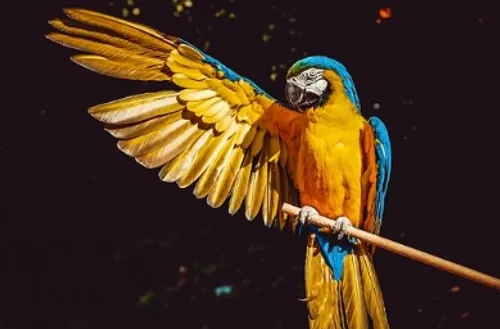
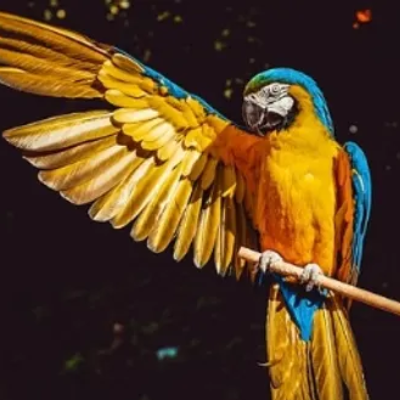
correcciones

diff --git a/index.html b/index.html
@@ -4,9 +4,9 @@
     <meta charset="UTF-8" />
     <meta name="viewport" content="width=device-width, initial-scale=1.0" />
     <title>Zoologico</title>
-    <link rel="stylesheet" href="style.css" />
+    <link rel="stylesheet" href="PaginaListas.css" />
   </head>
-  <body Class="Listado">
+  <body class="Listado">
     <h1>Animales voladores</h1>
     <!--las etiquetas h, son para titulos, mientras mas alto, menos importante y p es para parrafos -->
     <p>Descubre los fascinantes animales que pueden volar.</p>
@@ -16,28 +16,31 @@
       Explora nuestra lista de animales voladores y aprende más sobre ellos.
     </p>
     <section class="lista-animales">
-      <ul>
-        <li>
-          <a href="AnimalesDetallados.html" target="_blank"
-            ><img class="animales" src="imagenes/Tero.png" alt="Tero"
+      <a href="AnimalesDetallados.html" target="_blank"
+        ><img class="animales" src="imagenes/Tero.png" alt="Tero"
+      /></a>
+      <a href="AnimalesDetallados.html" target="_blank"
+        ><img class="animales" src="imagenes/Tucan.png" alt="Tucan"
+      /></a>
+      <a href="AnimalesDetallados.html" target="_blank"
+        ><img class="animales" src="imagenes/Colibri.png" alt="Colibrí"
+      /></a>
+      <a href="AnimalesDetallados.html" target="_blank"
+        ><img class="animales" src="imagenes/Loro.png" alt="Loro"
+        /></a>
+        <a href="AnimalesDetallados.html" target="_blank"
+          ><img class="animales" src="imagenes/Aguila.png" alt="Águila"
           /></a>
-        </li>
-          <li>
-            <a href="AnimalesDetallados.html" target="_blank"
-            ><img class="animales" src="imagenes/Murcielago.png" alt="Murciélago"
-            /></a>
-          </li>
-          <li>
-            <a href="AnimalesDetallados.html" target="_blank"
-              ><img class="animales" src="imagenes/Colibri.png" alt="Colibrí"
-            /></a>
-          </li>
-          <li>
-            <a href="AnimalesDetallados.html" target="_blank"
-            ><img class="animales" src="imagenes/Loro.png" alt="Loro"
-            /></a>
-          </li>
-      </ul>
+          <a href="AnimalesDetallados.html" target="_blank"
+            ><img class="animales" src="imagenes/Avestruz.png" alt="Avestruz"
+          /></a>
+          <a href="AnimalesDetallados.html" target="_blank"
+            ><img class="animales" src="imagenes/Hornero.png" alt="Hornero"
+          /></a>
+          <a href="AnimalesDetallados.html" target="_blank"
+            ><img class="animales" src="imagenes/PavoReal.png" alt="Pavo Real"
+          /></a>
+      
       <!-- la etiqueta anchor abre el enlace en una nueva pestaña  y target="_blank" hacer que se abra en una nueva pestaña -->
       <!-- la etiqueta img es para insertar imagenes, podemos descargarlas de internet y darle la ruta o darle la ruta de la web-->
       <!-- tambien se puede poner a la imagen heigth="213" y width="213"> para darle medidas e ir ajustando-->

diff --git a/PaginaListas.css b/PaginaListas.css
@@ -1,0 +1,47 @@
+.articLista {
+    color: gray;
+    width: auto;
+    height: auto;
+    border: 2px solid black;
+    margin: 10px;
+}
+
+ul {
+    list-style-type: none;
+}
+
+.animales {
+    margin: 10px;
+    border-style: double;
+    border-width: 5px;
+    color: black;
+}
+
+.lista-animales {
+    min-width: 1000px;
+    margin: 0 auto;
+    background-color: lemonchiffon;
+
+
+}
+
+.Listado {
+    background-color: #FAEBD7;
+    text-align: center;
+    width: 100%;
+    display: flex;
+    flex-direction: column;
+    align-items: center;
+
+}
+animales-voladores {
+    display: flex;
+    flex-direction: row;
+    min-width: 1000px;
+}
+li{
+    border: 2px solid black;
+    flex: auto;
+    max-width: 50px;
+    max-height:50px;
+}

diff --git a/AnimalesDetallados.html b/AnimalesDetallados.html
@@ -4,7 +4,7 @@
     <meta charset="UTF-8" />
     <meta name="viewport" content="width=device-width, initial-scale=1.0" />
     <title>Nombre del animal</title>
-    <link rel="stylesheet" href="style.css" />
+    <link rel="stylesheet" href="Detalles.css" />
   </head>
   <body class="Detalle">
     <!-- imágen del animal aqui (o talvez sea el fondo de la página)-->

diff --git a/Detalles.css b/Detalles.css
@@ -1,0 +1,15 @@
+
+/* de esta forma se insertan imagenes como fondo*/
+.Detalle {
+    background-image: url(imagenes/Tero.png);
+    height: 300px;
+    width: 100%;
+    position: relative;
+}
+
+
+
+.NombreCientifico {
+    color: black;
+    font-family: Lucida Handwriting, Cursive;
+}
